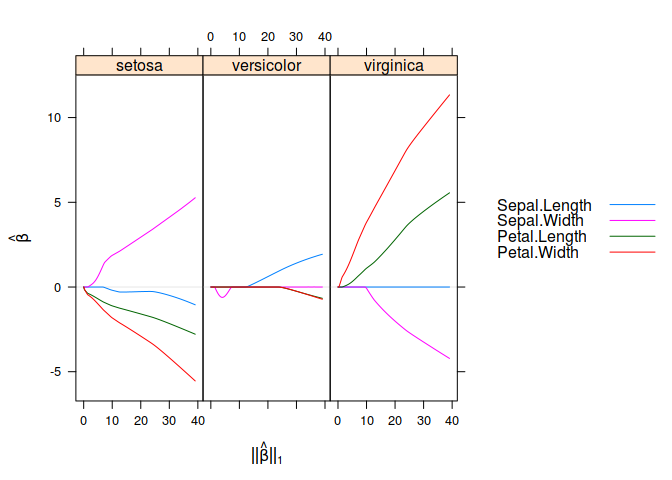
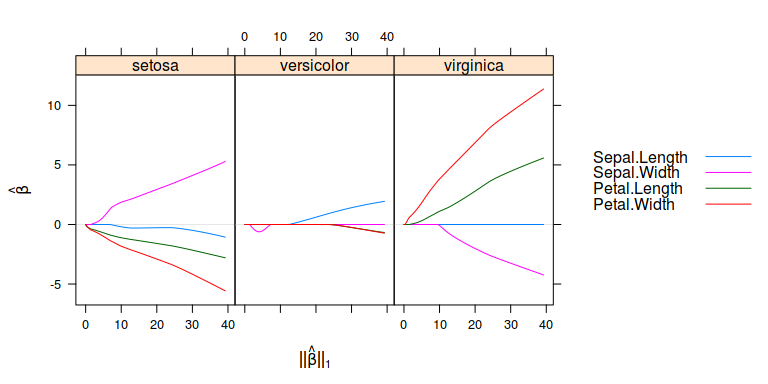
Resize readme image

diff --git a/README.md b/README.md
@@ -18,8 +18,7 @@ algorithm SAGA (Defazio et al. 2014).
 
 **sgdnet** is not currently available on
 [CRAN](https://cran.r-project.org/) but can be installed using the
-[devtools](https://CRAN.R-project.org/package=devtools) package as
-follows:
+[devtools](https://CRAN.R-project.org/package=devtools) package:
 
 ``` r
 # install.packages("devtools")
@@ -30,7 +29,7 @@ devtools::install_github("jolars/sgdnet")
 
 It is simple to fit a model using **sgdnet**. The interface deliberately
 mimics that of [glmnet](https://CRAN.R-project.org/package=glmnet) to
-facilitate transitionining.
+facilitate transitioning between the two.
 
 First we load the package, and then we fit a multinomial model to the
 [iris](https://en.wikipedia.org/wiki/Iris_flower_data_set) data set. We
@@ -40,7 +39,7 @@ penalty](https://en.wikipedia.org/wiki/Elastic_net_regularization) to
 [ridge](https://en.wikipedia.org/wiki/Tikhonov_regularization) and
 [lasso](https://en.wikipedia.org/wiki/Lasso_\(statistics\)) penalties.
 
-**sgdnet** automatically fits the model across an automatically computed
+**sgdnet** fits the model across an automatically computed
 regularization path. Altneratively, the user might supply their own path
 using the `lambda` argument.
 
@@ -50,7 +49,7 @@ fit <- sgdnet(iris[, 1:4], iris[, 5], family = "multinomial", alpha = 0.8)
 plot(fit)
 ```
 
-<img src="man/figures/README-unnamed-chunk-2-1.png" title="The coefficients from a multinomial model along the regularization path fit to the iris data set." alt="The coefficients from a multinomial model along the regularization path fit to the iris data set." width="100%" />
+<img src="man/figures/README-unnamed-chunk-2-1.png" title="The coefficients from a multinomial model along the regularization path fit to the iris data set." alt="The coefficients from a multinomial model along the regularization path fit to the iris data set." width="auto" />
 
 ## License
 
@@ -58,7 +57,7 @@ plot(fit)
 
 ## Versioning
 
-**eulerr** uses [semantic versioning](https://semver.org/).
+**sgdnet** uses [semantic versioning](https://semver.org/).
 
 ## Acknowledgements
 
